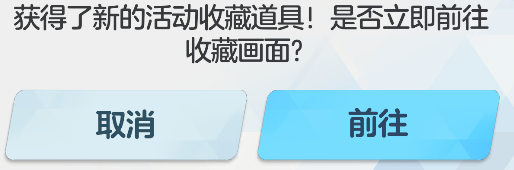
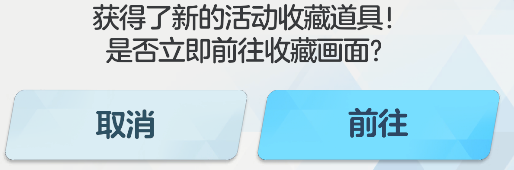
update : CN activity and fix activity_get-collectable-item ui change

Changed region(s): [[0.0311, 0.0294, 0.965, 0.1765], [0.1868, 0.2059, 0.7471, 0.3824]]

diff --git a/core/config/default_config.py b/core/config/default_config.py
@@ -3541,7 +3541,7 @@ STATIC_DEFAULT_CONFIG = '''
         ]
     },
     "current_game_activity": {
-        "CN": "SummerSpecialOperationsRABBITPlatoonAndTheMysteryOfTheMissingShrimp",
+        "CN": "InSearchOfAHiddenHeritageTrinity'sExtracurricularActivities",
         "Global": "ForWhomTheArtIsForTheFateofDecorativePaintingandAesthetics",
         "JP": "SecretMidnightParty"
     },
